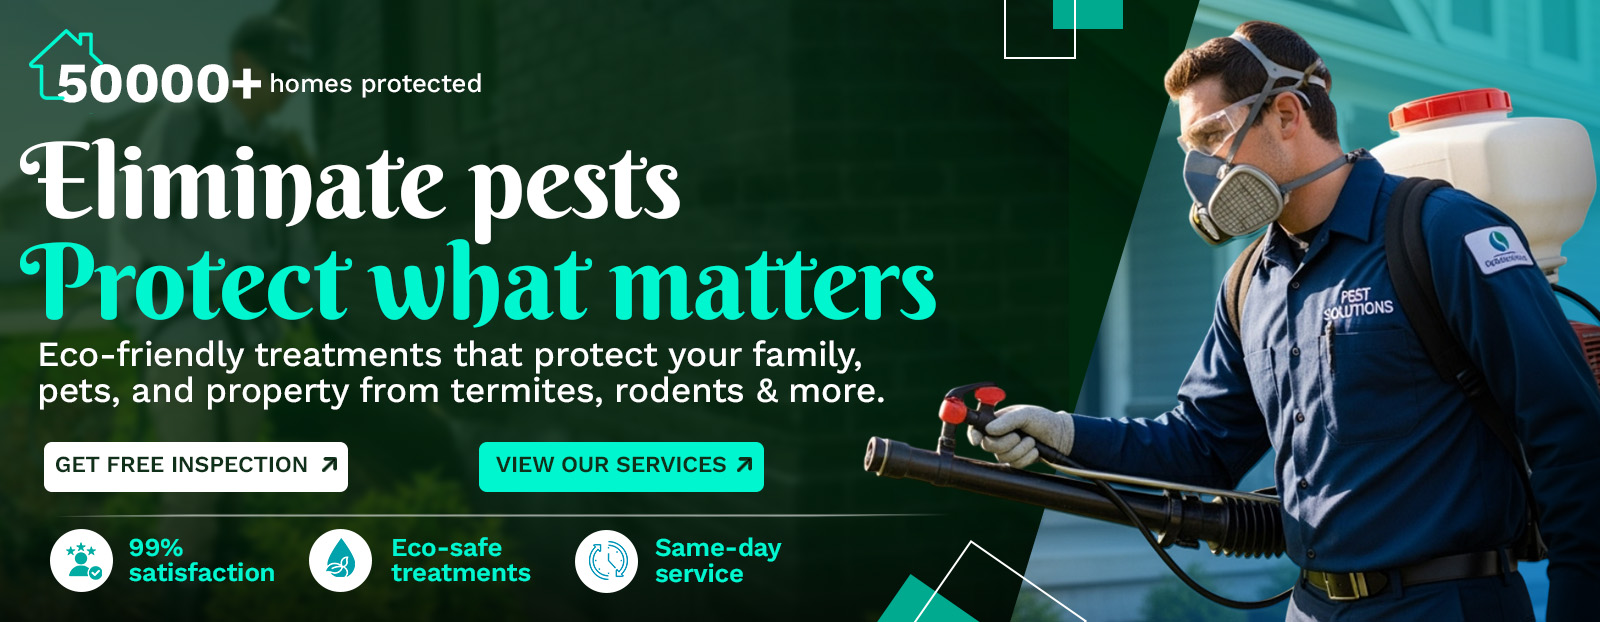
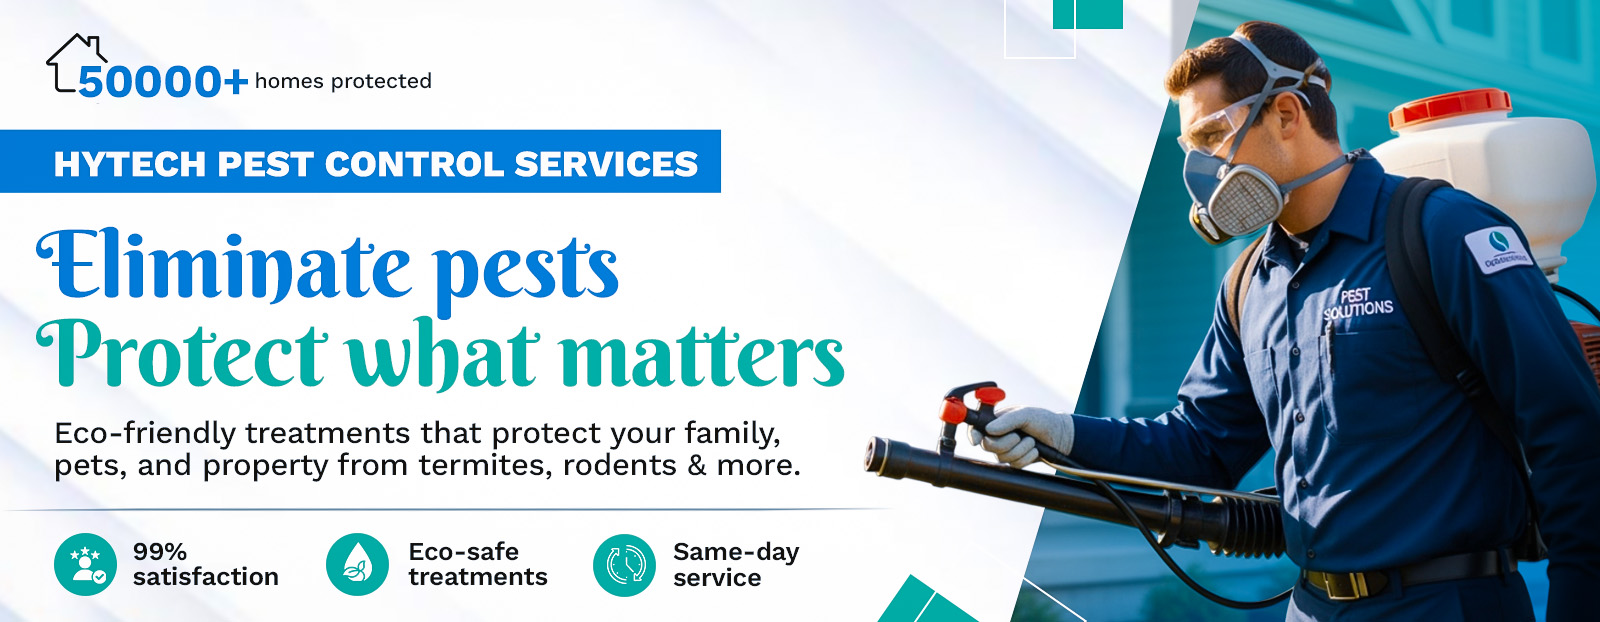
changes

diff --git a/index.html b/index.html
@@ -172,7 +172,7 @@
       <div class="carousel-inner">
         <div class="carousel-item active">
           <img
-            src="images/web banner 1.jpg (1).jpeg"
+            src="images/hytech/banner1.jpeg"
             class="d-block w-100"
             alt="..."
           />
@@ -789,10 +789,7 @@
                     <div class="sisf-sis-e-service-list mb-3">
                       <div class="sisf-e-inner sis-radius position-relative">
                         <div class="sisf-service-icon-image">
-                          <a
-                            href="service-single.html"
-                            class="sisf-sis-page-link"
-                          >
+                          <a href="" class="sisf-sis-page-link">
                             <figure class="sis-image-anime">
                               <img
                                 src="images/service-img1.png"
@@ -808,13 +805,15 @@
                         >
                           <div class="sisf-sis-e-title">
                             <h3 class="sisf-e-title mb-2">
-                              <a href="service-single.html">Termite Control</a>
+                              <a href="">General Pest Control Treatment</a>
                             </h3>
                             <div class="sisf-m-text">
                               <p class="mb-0 text-white">
-                                Protect your property from structural damage
-                                with advanced termite detection and treatment
-                                solutions.
+                                Protect your home and workplace with our
+                                reliable general pest control services. We
+                                eliminate common pests using safe, effective,
+                                and long-lasting treatments to ensure a clean,
+                                healthy, and pest-free environment.
                               </p>
                             </div>
                           </div>